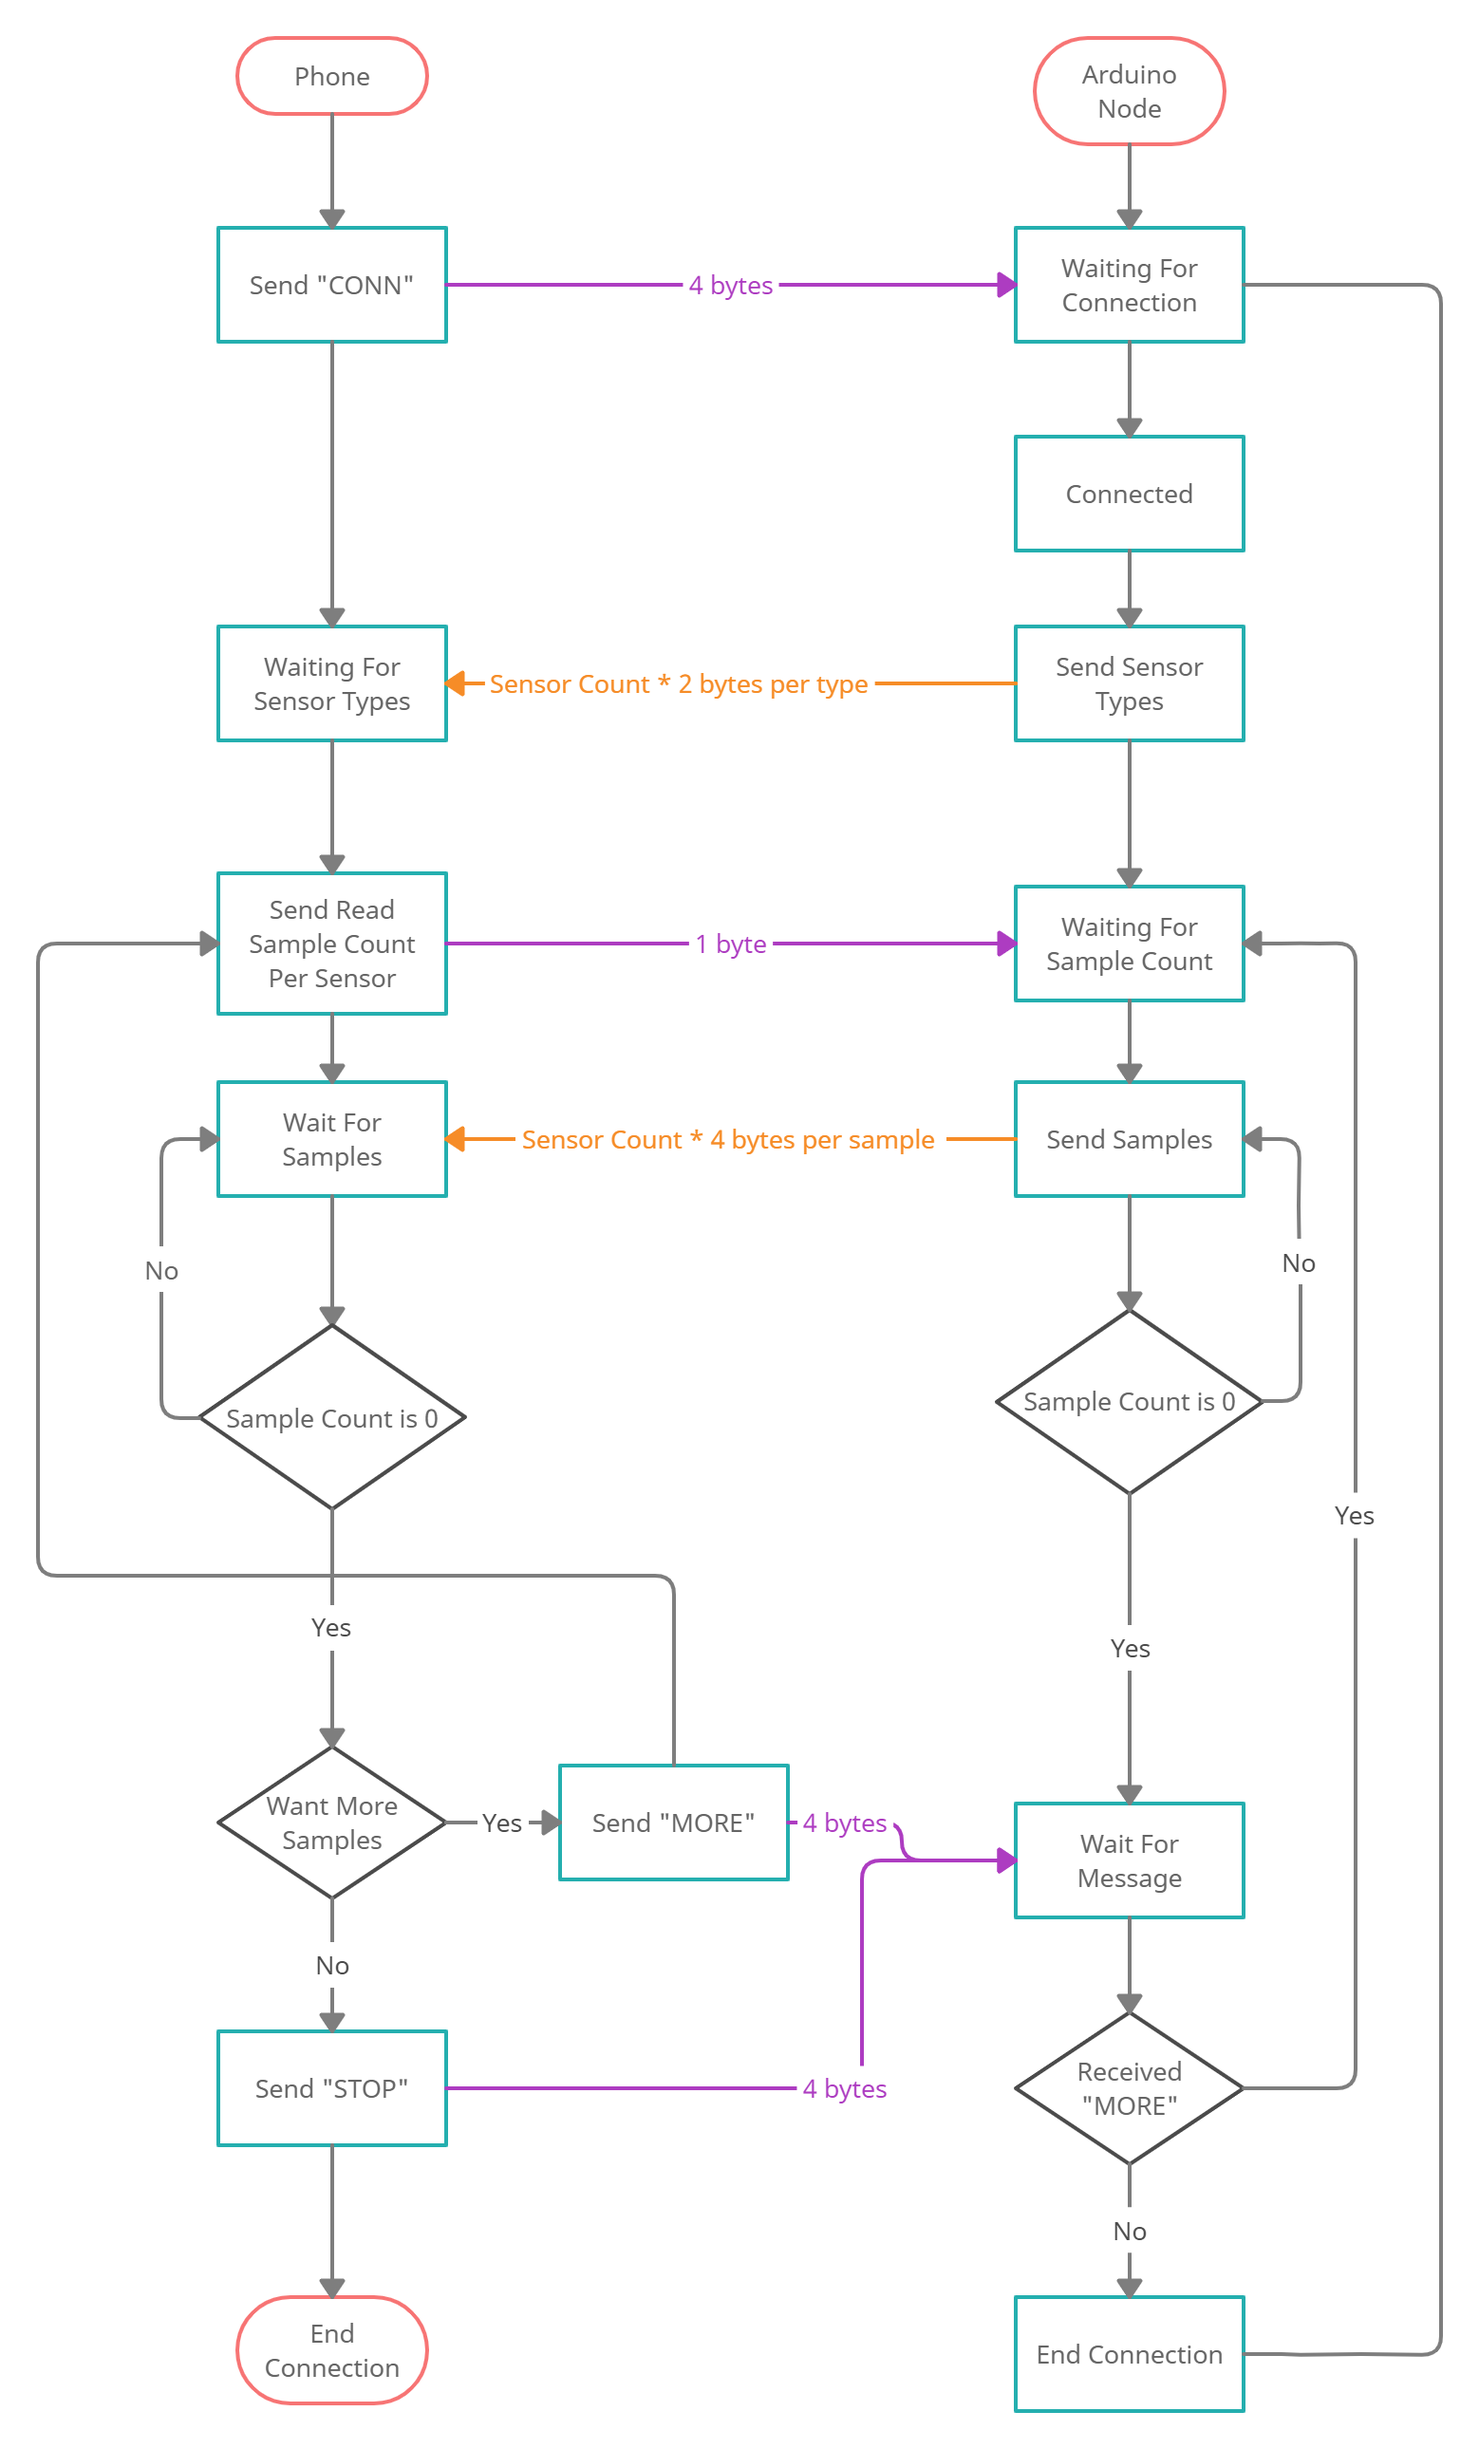
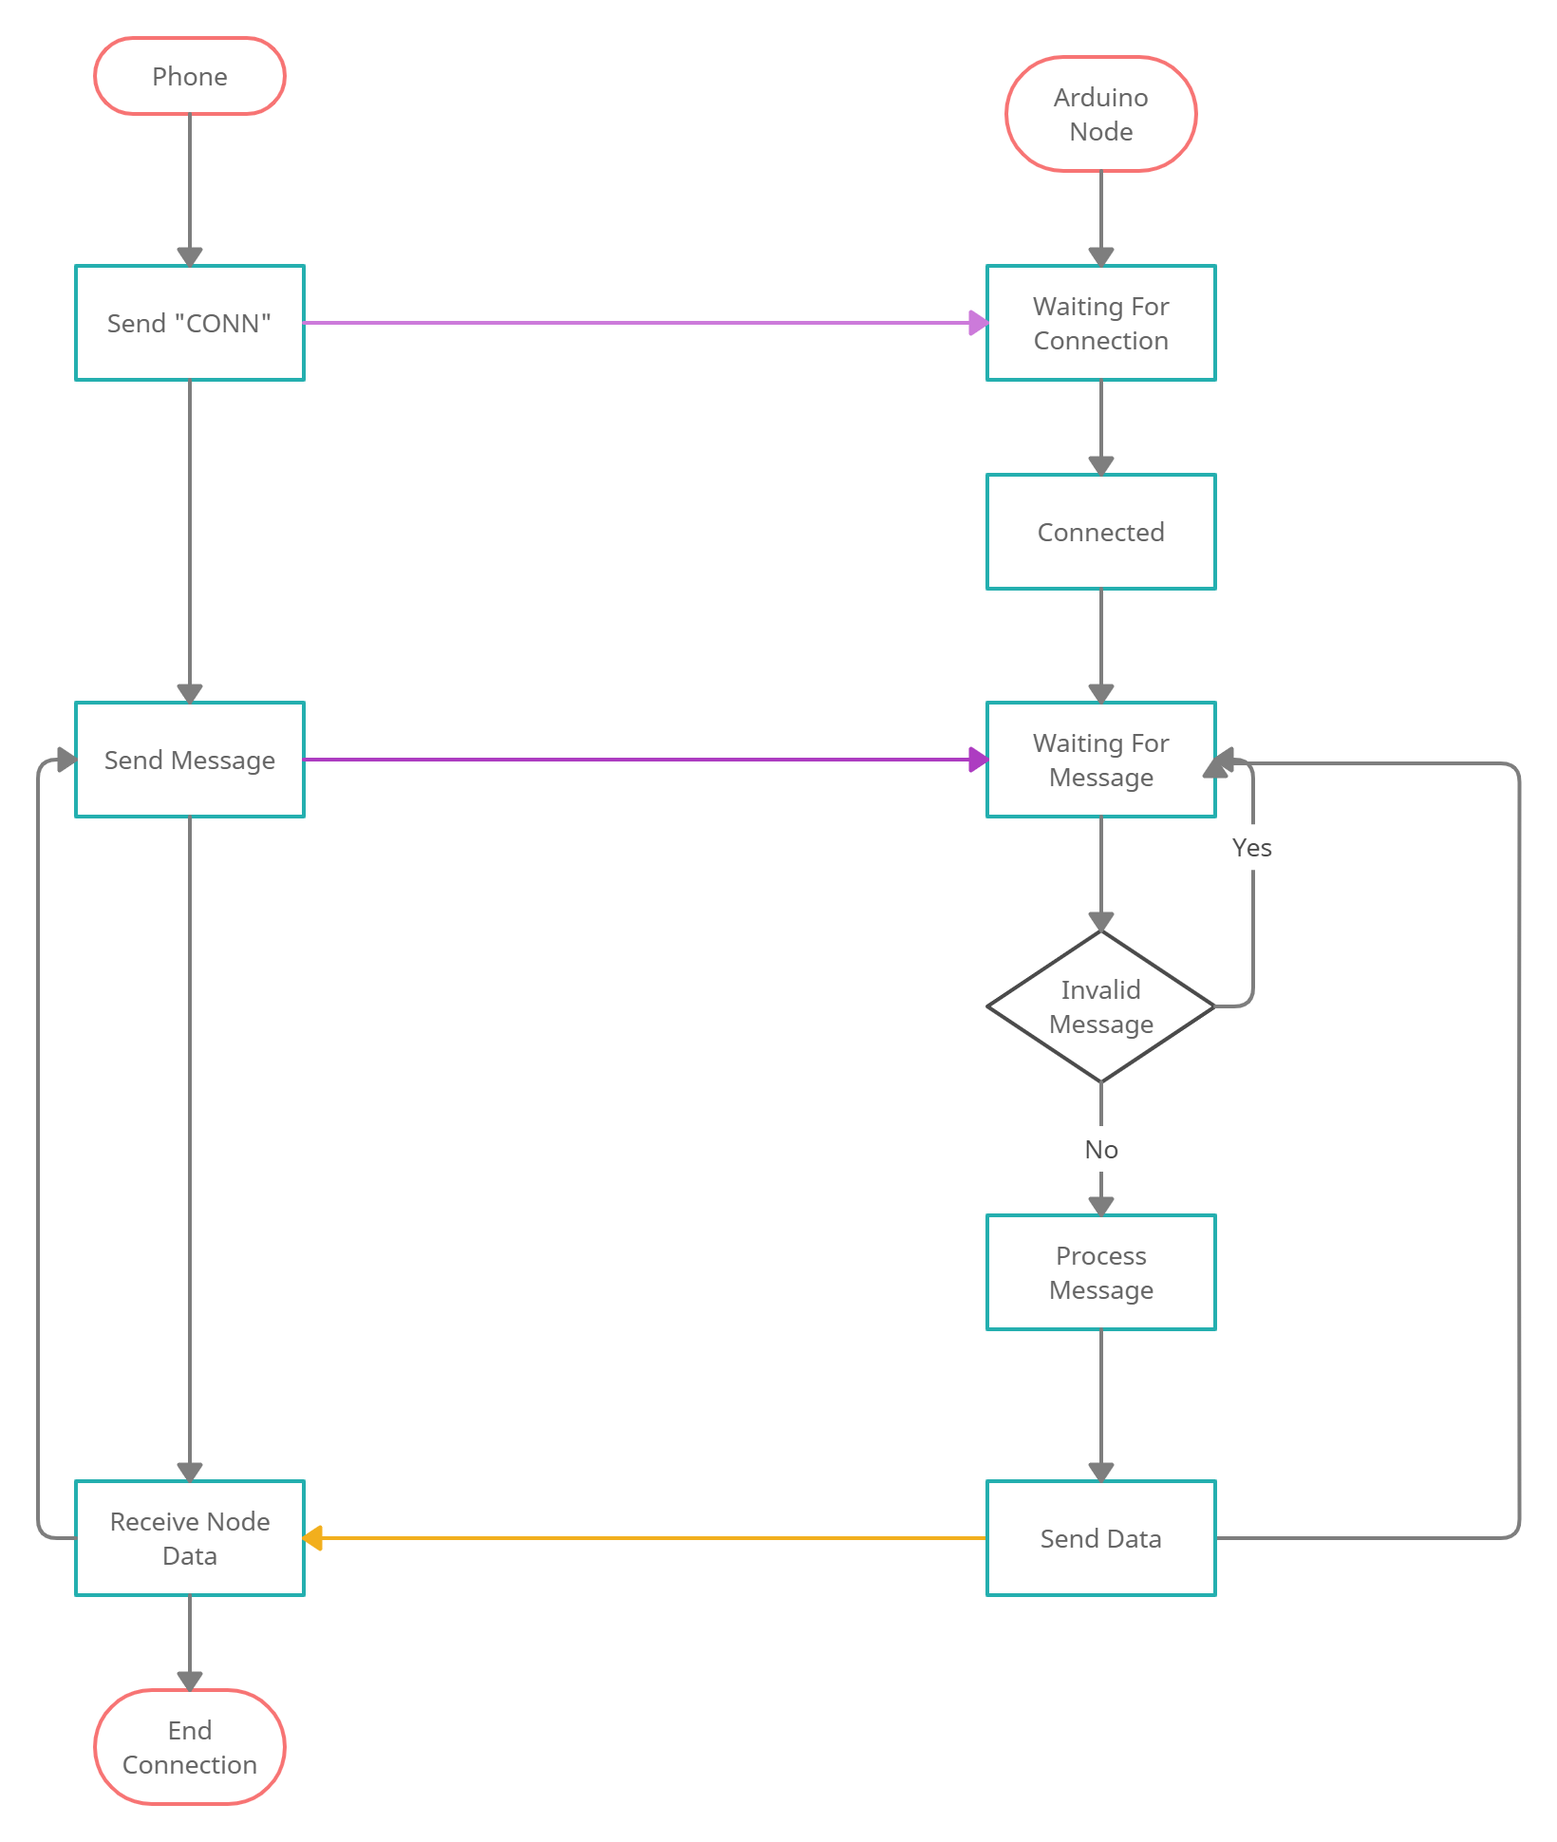
Updated Bluetooth Protocol

diff --git a/src/Bluetooth/BTCommunicationProtocol.cpp b/src/Bluetooth/BTCommunicationProtocol.cpp
@@ -1,11 +1,20 @@
 #include "BTCommunicationProtocol.h"
 #include <string.h>
+#include "NodeManager/NodeManager.h"
+#include "Sensor/SensorTypes.h"
+#include "Sensor/SensorData.h"
 
-BTCommunicationProtocol::BTCommunicationProtocol(int BTTransmitPin, int BTReceivePin, ISensor *sensor1, ISensor *sensor2)
-    : BTSerial(BTReceivePin, BTTransmitPin, 0)
+static char ConnectString[] = "CONN";
+static char DisconnectString[] = "STOP";
+static char RequestDataString[] = "RQDT";
+static char RequestSensorTypesString[] = "RQST";
+static char SendSensorTypeString[] = "STYP";
+static char DataPacketString[] = "DATA";
+static char StartSendingDataString[] = "STSD";
+static char StopSendingDataString[] = "SPSD";
+
+BTCommunicationProtocol::BTCommunicationProtocol(int BTTransmitPin, int BTReceivePin) : BTSerial(BTReceivePin, BTTransmitPin, 0)
 {
-    this->sensor1 = sensor1;
-    this->sensor2 = sensor2;
     Reset();
 }
 
@@ -17,6 +26,7 @@ void BTCommunicationProtocol::Reset()
 {
     protocolState_en = WAITING_FOR_MESSAGE;
     currentTextBufferIndex = 0;
+    g_NodeManager.GoToSleep();
 }
 
 void BTCommunicationProtocol::Begin(long baudrate)
@@ -46,8 +56,6 @@ void BTCommunicationProtocol::StateMachineRun()
         while (HasData())
         {
             lastMillis = currentMillis;
-
-            lastMillis = currentMillis;
             textBuffer[currentTextBufferIndex++] = (char)BTSerial.read();
 
             if (currentTextBufferIndex == TEXT_BUFFER_SIZE)
@@ -55,80 +63,72 @@ void BTCommunicationProtocol::StateMachineRun()
                 textBuffer[currentTextBufferIndex] = '\0';
                 currentTextBufferIndex = 0;
 
-                if (strcmp(textBuffer, "CONN") == 0)
+                if (strcmp(textBuffer, ConnectString) == 0)
                 {
-                    protocolState_en = SEND_SENSOR_TYPES;
+                    g_NodeManager.WakeUp();
                 }
-                else if (strcmp(textBuffer, "MORE") == 0)
+                else if (strcmp(textBuffer, DisconnectString) == 0)
                 {
-                    protocolState_en = WAITING_FOR_SAMPLE_COUNT;
+                    Reset();
+                }
+                else if (strcmp(textBuffer, RequestDataString) == 0)
+                {
+                    protocolState_en = SENDING_DATA;
+                }
+                else if (strcmp(textBuffer, RequestSensorTypesString) == 0)
+                {
+                    protocolState_en = SENDING_SENSOR_TYPES;
                 }
                 else
                 {
-                    Reset();
+                    protocolState_en = WAITING_FOR_MESSAGE;
                 }
             }
         }
     };
     break;
 
-    case SEND_SENSOR_TYPES:
+    case SENDING_SENSOR_TYPES:
     {
         lastMillis = currentMillis;
 
-        SendSensorTypes();
-        protocolState_en = WAITING_FOR_SAMPLE_COUNT;
+        SensorTypes sensorTypes[2];
+        g_NodeManager.GetSensorTypes(sensorTypes);
+
+        char type[] = "0";
+        for (int i = 0; i < 2; i++)
+        {
+            if (sensorTypes[i] == NO_TYPE)
+            {
+                continue;
+            }
+            SendString(SendSensorTypeString);
+            type[0] += sensorTypes[i];
+            SendString(type);
+        }
+
+        protocolState_en = WAITING_FOR_MESSAGE;
     }
     break;
 
-    case WAITING_FOR_SAMPLE_COUNT:
+    case SENDING_DATA:
     {
-        sampleCountPerSensor = 0;
-        while (HasData())
+        lastMillis = currentMillis;
+
+        SendString(StartSendingDataString);
+
+        g_NodeManager.StartDataReplay();
+
+        SensorData sensorData;
+
+        while (g_NodeManager.HasNextLog())
         {
-            lastMillis = currentMillis;
-
-            if (sampleCountPerSensor != 0)
-            {
-                sampleCountPerSensor = BTSerial.read();
-            }
-            protocolState_en = SEND_SAMPLES;
-        }
-    }
-    break;
-
-    case SEND_SAMPLES:
-    {
-        while (sampleCountPerSensor > 0)
-        {
-            lastMillis = currentMillis;
-
-            // convert float to long
-            // send bytes starting with LSB
-
-            if (sensor1 != NULL)
-            {
-                float value = sensor1->ReadValue();
-                long copyValue = *(long *)&value;
-                for (unsigned int i = 0; i < sizeof(long); i++)
-                {
-                    BTSerial.write((copyValue >> (i * 8)) & 255);
-                }
-            }
-
-            if (sensor2 != NULL)
-            {
-                float value = sensor2->ReadValue();
-                long copyValue = *(long *)&value;
-                for (unsigned int i = 0; i < sizeof(long); i++)
-                {
-                    BTSerial.write((copyValue >> (i * 8)) & 255);
-                }
-            }
-
-            sampleCountPerSensor--;
+            g_NodeManager.ReadSensorData(&sensorData);
+            SendString(DataPacketString);
+            SendBytes(&sensorData, sizeof(SensorData));
         }
 
+        SendString(StopSendingDataString);
         protocolState_en = WAITING_FOR_MESSAGE;
     }
     break;
@@ -140,20 +140,23 @@ bool BTCommunicationProtocol::HasData()
     return BTSerial.available();
 }
 
-void BTCommunicationProtocol::SendSensorTypes()
+void BTCommunicationProtocol::SendString(char *str)
 {
-    if (sensor1 == NULL && sensor2 == NULL)
+    int size = strlen(str);
+    for (int i = 0; i < size; i++)
     {
-        Reset();
+        BTSerial.write(str[i]);
     }
+}
 
-    if (sensor1 != NULL)
-    {
-        BTSerial.write(sensor1->GetType());
-    }
+void BTCommunicationProtocol::SendBytes(void *memoryLocation_ptr, size_t memoryLocationSize)
+{
+    void *memoryLocationCurrent_ptr = memoryLocation_ptr;
+    char *currentByte = NULL;
 
-    if (sensor2 != NULL)
+    for (size_t i = 0; i < memoryLocationSize; i++)
     {
-        BTSerial.write(sensor2->GetType());
+        currentByte = (char *)memoryLocationCurrent_ptr + i;
+        Serial.print(*currentByte);
     }
 }

diff --git a/src/Bluetooth/BTCommunicationProtocol.h b/src/Bluetooth/BTCommunicationProtocol.h
@@ -11,15 +11,14 @@
 enum BTProtocolState
 {
     WAITING_FOR_MESSAGE = 0,
-    SEND_SENSOR_TYPES,
-    WAITING_FOR_SAMPLE_COUNT,
-    SEND_SAMPLES
+    SENDING_SENSOR_TYPES,
+    SENDING_DATA
 };
 
 class BTCommunicationProtocol
 {
 public:
-    BTCommunicationProtocol(int BTTransmitPin, int BTReceivePin, ISensor *sensor1, ISensor *sensor2);
+    BTCommunicationProtocol(int BTTransmitPin, int BTReceivePin);
     ~BTCommunicationProtocol();
 
     void Reset();
@@ -28,18 +27,15 @@ public:
 
 private:
     void StateMachineRun();
-    void SendSensorTypes();
     bool HasData();
-
-    int sampleCountPerSensor;
+    void SendString(char *str);
+    void SendBytes(void *memoryLocation_ptr, size_t memoryLocationSize);
 
     long currentMillis;
     long lastMillis;
 
     SoftwareSerial BTSerial;
     BTProtocolState protocolState_en;
-    ISensor *sensor1;
-    ISensor *sensor2;
     char textBuffer[TEXT_BUFFER_SIZE + 1];
     int currentTextBufferIndex;
 };

diff --git a/src/NodeManager/NodeManager.cpp b/src/NodeManager/NodeManager.cpp
@@ -1,0 +1,52 @@
+#include "NodeManager.h"
+#include "Arduino.h"
+
+NodeManager::NodeManager(ISensor *sensor1, ISensor *sensor2)
+{
+    this->sensor1 = sensor1;
+    this->sensor2 = sensor2;
+}
+
+NodeManager::~NodeManager()
+{
+}
+
+void NodeManager::WakeUp()
+{
+}
+
+void NodeManager::GoToSleep()
+{
+}
+
+void NodeManager::StartDataReplay()
+{
+    currentValue = 0;
+}
+bool NodeManager::HasNextLog()
+{
+    return currentValue != 2;
+}
+
+void NodeManager::ReadSensorData(SensorData *data_ptr)
+{
+    data_ptr->sensorType_en = (SensorTypes)(currentValue + 1);
+    data_ptr->sensorValue = 2.0f;
+    data_ptr->time = 0;
+}
+
+void NodeManager::GetSensorTypes(SensorTypes sensorTypes[2])
+{
+    sensorTypes[0] = NO_TYPE;
+    sensorTypes[1] = NO_TYPE;
+
+    if (sensor1 != NULL)
+    {
+        sensorTypes[0] = sensor1->GetType();
+    }
+
+    if (sensor2 != NULL)
+    {
+        sensorTypes[1] = sensor2->GetType();
+    }
+}

diff --git a/src/NodeManager/NodeManager.h b/src/NodeManager/NodeManager.h
@@ -1,0 +1,32 @@
+#ifndef NODE_MANAGER_H
+#define NODE_MANAGER_H
+
+#include "Sensor/SensorData.h"
+#include "Sensor/ISensor.h"
+#include "Sensor/SensorTypes.h"
+
+class NodeManager
+{
+public:
+    NodeManager(ISensor *sensor1, ISensor *sensor2);
+    ~NodeManager();
+
+    void WakeUp();
+    void GoToSleep();
+
+    void GetSensorTypes(SensorTypes sensorTypes[2]);
+
+    void StartDataReplay();
+    bool HasNextLog();
+    void ReadSensorData(SensorData *data_ptr);
+
+private:
+    ISensor *sensor1;
+    ISensor *sensor2;
+
+    int currentValue;
+};
+
+extern NodeManager g_NodeManager;
+
+#endif // NODE_MANAGER_H

diff --git a/src/main.cpp b/src/main.cpp
@@ -1,5 +1,6 @@
 #include <Arduino.h>
 
+#include "NodeManager/NodeManager.h"
 #include "Bluetooth/BTCommunicationProtocol.h"
 
 #include "Sensor/ISensor.h"
@@ -8,7 +9,8 @@
 SoilMoistureSensor soilMoistureSensor1(A0);
 SoilMoistureSensor soilMoistureSensor2(A0);
 
-BTCommunicationProtocol BTCommunication(3, 2, &soilMoistureSensor1, &soilMoistureSensor2);
+NodeManager g_NodeManager(&soilMoistureSensor1, &soilMoistureSensor2);
+BTCommunicationProtocol BTCommunication(3, 2);
 
 void setup()
 {

diff --git a/src/Sensor/SensorData.h b/src/Sensor/SensorData.h
@@ -1,0 +1,13 @@
+#ifndef SENSOR_DATA_H
+#define SENSOR_DATA_H
+
+#include "SensorTypes.h"
+
+struct SensorData
+{
+    SensorTypes sensorType_en;
+    float sensorValue;
+    long time;
+};
+
+#endif // SENSOR_DATA_H
